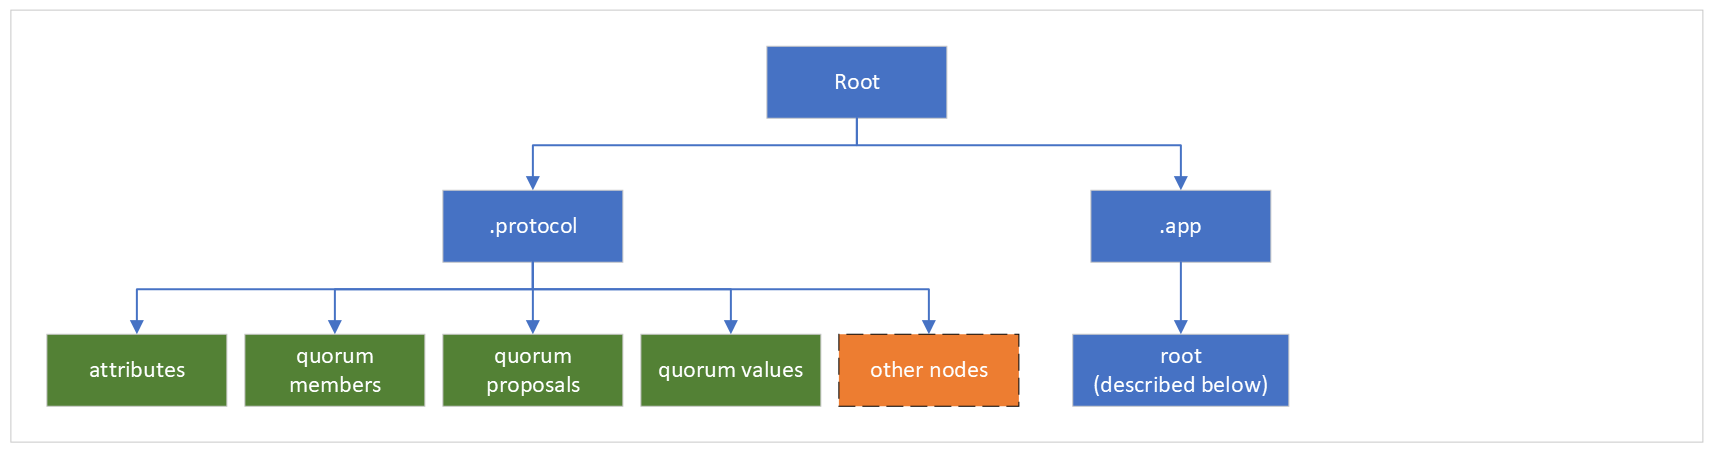
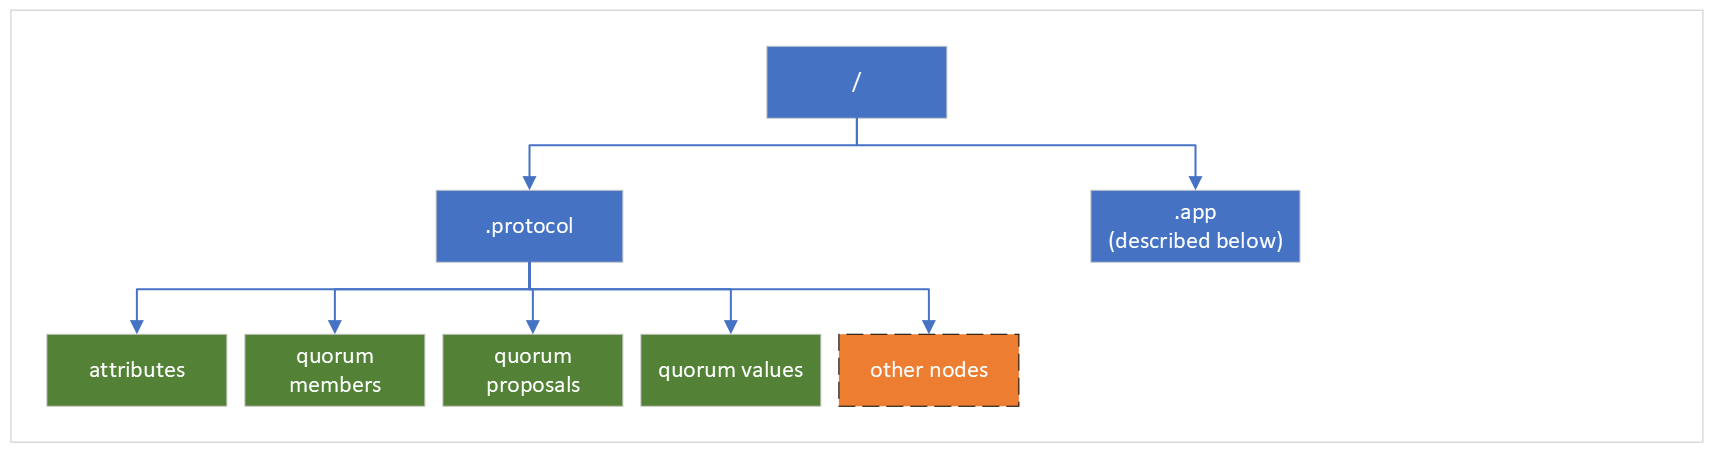
[Summarization] Added README for summarization which provides an overview of the summaries

diff --git a/packages/runtime/container-runtime/src/summary/README.md b/packages/runtime/container-runtime/src/summary/README.md
@@ -1,0 +1,81 @@
+## Table of contents
+
+-   [Introduction](#introduction)
+    -   [Summary vs snapshot](#summary-vs-snapshot)
+-   [Why do we need summaries?](#why-do-we-need-summaries)
+-   [Who generates summaries?](#who-generates-summaries)
+-   [When are summaries generated?](#when-are-summaries-generated)
+-   [How are summaries generated?](#how-are-summaries-generated)
+    -   [Summary Lifecycle](#summary-lifecycle)
+    -   [Single-commit vs two-commit summaries](#single-commit-vs-two-commit-summaries)
+    -   [Incremental summaries](#incremental-summaries)
+	-   [Resiliency](#resiliency)
+-   [What does a summary look like?](#what-does-a-summary-look-like)
+
+## Introduction
+
+This document provides a conceptual overview of summarization without going into a lot of technical or implementation details. It describes what summaries are, how / when they are generated and what do they look like. The goal is for this to be an entry point into summarization for users and developers alike.
+
+### Summary vs snapshot
+
+The terms summary and snapshot are sometimes used interchangeably. Both represent the state of a container at a point in time. They differ in some respects which are described in [this FAQ](https://fluidframework.com/docs/faq/#summarization).
+
+## Why do we need summaries?
+
+A 'summary' captures the state of a container at a point in time. Without it, a client would have to apply every operation in the op log, even if those operations no longer affected the current state (e.g. op 1 inserts ‘h’ and op 2 deletes ‘h’). For very large op logs, this would be very expensive for clients to both process and download from the service.
+Instead, when a client opens a collaborative document, it can download a snapshot of the container, and simply process new operations from that point forward.
+
+## Who generates summaries?
+
+Summaries can be generated by any client connected in "write" mode. In the current implementation, summaries are generated by a separate non-interactive client. Using a separate client is an optimization - this client doesn't have to take local changes into account which can make the summary process more complicated. A summarizer client has the following characteristics:
+
+-   All the clients connected to the document participate in a process called "summary client election" to elect a "parent summarizer" client. Typically, it's the older "write" client connected to the document. The parent summarizer client spawns a "summarizer" client which is responsible for summarization.
+-   A summarizer client is like any other client connected to the document except that users cannot interact with this client, and it only works on the state it receives from other clients. It has a brand-new container with its own connection to services.
+
+> Note that if the summarizer client closes, the "summary client election" process will choose a new one, if applicable. The default "summary client election" algorithm is to select the oldest "write" client as the parent summarizer client which in turn will create the summarizer client.
+
+## When are summaries generated?
+
+The summarizer client periodically generates summary based on heuristics calculated based on configurations such as the number of user vs system ops received, the amount of time a client has been idle (hasn't received any ops), the maximum time since last summary, maximum number of ops since last summary, etc. The heuristic configurations are defined by an _ISummaryConfigurationHeuristics_ interface defined in [this file](../../src/containerRuntime.ts).
+
+The summarizer client uses a default set of configurations defined by _DefaultSummaryConfiguration_ in [this file](../../src/containerRuntime.ts). These can be overridden by providing a new set of configurations as part of container runtime options during creation.
+
+## How are summaries generated?
+
+When summarization process is triggered, every object in the container's object tree that has data to be summarized is asked to generate its summary, starting at the container runtime which is at the root. There are various objects that participate in the summary process and generate its summary such as data stores, DDSes, garbage collector, blob manager, id compressor, etc. Note that the user data is in the DDSes.
+
+### Summary Lifecycle
+
+The lifecycle of a summary starts when a "parent summarizer" client is elected.
+-   The parent summarizer spawns a non-interactive summarizer client.
+-   The summarizer client periodically starts a summary as per heuristics. A summary happens at a particular sequence number called the "summary sequence number" or reference sequence number for the summary.
+-   The container runtime (or simply runtime) generates a summary tree (described in section "What does a summary look like?" below).
+-   The runtime uploads the summary tree to the Fluid storage service which returns a handle (unique id) to the summary if the upload is successful. Otherwise, it returns a failure.
+-   The runtime submits a "summarize" op to the Fluid ordering service containing the uploaded summary handle and the summary sequence number.
+-   The ordering service stamps it with a sequence number (like any other op) and broadcasts the summarize op.
+-   Another service on the server responds to the summarize op.
+    -   If the summary is accepted, it sends a "summary ack" with the summary sequence number and a summary handle. This handle may or may not be the same as the one in summary op depending on whether this is a single-commit or two-commit summary. More details on this below.
+    -   If the summary is rejected, it sends a "summary nack" with the details of the summary op
+-   The runtime completes the summary process on receiving the summary ack / nack. The runtime has a timeout called "maxAckWaitTime" and if the summary op, ack or nack is not received within this time, it will fail this summary.
+
+### Single-commit vs two-commit summaries
+
+By default, Fluid uses "two-commit summaries" mode where the two commits refer to the storage committing the summary twice and returning two different handles for it - One when the summary is uploaded and second, on responding to the summary op via a summary ack. In this mode, when the server receives the summary op, it augments the corresponding summary with a "protocol" blob hence generating a new commit and new handle for this summary which it returns in the summary ack.
+
+Fluid is switching to "single-commit summary" mode where the client adds the "protocol" blob when uploading the summary. Thus, the server doesn't need to augment the summary and the summary ack is no longer required. As soon as the summary is uploaded (first commit), the summary process is complete. The "summarize" op then is just a way to indicate that a summary happened, and it has details of the summary
+
+### Incremental summaries
+
+Summaries are incremental, i.e., if an object (or node) did not change since the last summary, it doesn't have to re-summarize its entire contents. Fluid supports the concept of a summary handle defined in [this file](../../../../../common/lib/protocol-definitions/src/summary.ts). A handle is a path to a subtree in a snapshot and it allows objects to reference a subtree in the previous snapshot, which is essentially an instruction to storage to find that subtree and populate into new summary.
+
+Say that a data store or DDS did not change since the last summary, it doesn't have to go through the whole summary process described above. It can instead return an ISummaryHandle with path to its subtree in the previous snapshot. The same applies to other types of content like a single content blob within an object's summary tree.
+
+### Resiliency
+
+The summarization process is designed to be resilient - Basically, a document will eventually summarize and make progress even if there are intermittent failures or disruptions. Some examples of steps taken to achieve this:
+-   Last summary - Usually, if the "parent summarizer" client disconnects or shuts down, the "summarizer" client also shuts down and the summarizer election process begins. However, if there a certain number of un-summarized ops, the summarizer client will perform a "last summary" even if the parent shuts down. This is done to make progress in scenarios where there is a thrashing of summarizer clients where the parent summarizer keeps disconnecting repeatedly.
+-   Retries - The summarizer has a retry mechanism which can identify certain types of intermittent failures either in the client or in the server. It will retry the summary attempt for these failures a certain number of times. This helps in cases where there are intermittent failures such as throttling errors from the server which goes away after waiting for a while.
+
+## What does a summary look like?
+
+The format of a summary is described in [summary formats](./summaryFormats.md).

diff --git a/packages/runtime/container-runtime/src/summary/summaryFormats.md b/packages/runtime/container-runtime/src/summary/summaryFormats.md
@@ -104,9 +104,9 @@ Each node in a snapshot tree is represented by the above interface and contains 
 This section shows what a typical summary or snapshot tree in a container looks like. Some key things to note:
 
 -   The diagrams in this section show some examples of existing blobs / trees that are added at each node and doesn't show an exhaustive list.
--   The blue boxes represent tree nodes.
--   The green boxes represent blobs.
--   The purple boxes represent attachments.
+-   The blue boxes represent summary tree nodes.
+-   The green boxes represent summary blobs.
+-   The purple boxes represent summary attachments.
 -   The orange boxes represent other nodes - either existing nodes that are not shown or new nodes that may be added in the future. A node can be a tree, blob or attachment.
 
 A typical tree uploaded to or downloaded from storage looks like the following:
@@ -152,9 +152,9 @@ This is what the ".app" tree looks like which is generated by the container runt
     -   `.header blob` - Added by some DDSs and may contains its data. Note that all DDSs may not add this.
     -   A DDS may add other blobs and / or trees to represent its data. Basically, a DDS can write its data in any form
 
-### Summary tree distinction
+### Summary tree distinction - Incremental summaries
 
 In the visualization above, a summary tree differs from a snapshot tree in the following way:
 A summary tree supports incremental summaries via summary handles. Any node in the tree that has not changed since the previous successful summary can send a summary handle (`ISummaryHandle`) instead of sending its entire contents in a full summary. The following diagram shows this with an example where certain parts of the summary tree use a summary handle. It is a zoomed in version of the same app tree as above where nodes where summary handles are marked in red:
 
-![summaryTree](./images/summaryTree.png)
+![summaryTree](./images/incrementalSummaryTree.png)
